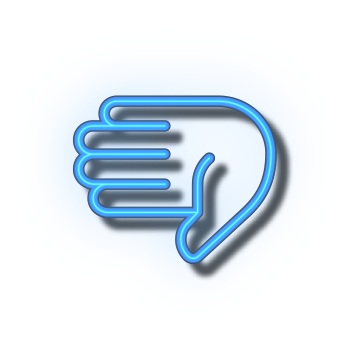
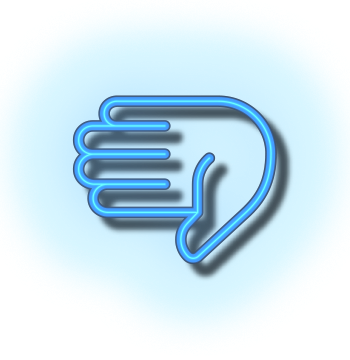
change styling of buttons

diff --git a/style.css b/style.css
@@ -1,6 +1,26 @@
+body{
+    background-image: url("img/background2.png");
+    background-position: top;
+}
+
+h1{
+    display: none;
+}
+
+.title{
+    background-image: url("img/title.png");
+    width: 720px;
+    height: 240px;
+    background-position: center;
+    margin: 0 auto;
+}
+
 .game{
-    margin-top: 70px;
+    margin-top: 20px;
     text-align: center;
+    display: flex;
+    flex-direction: column;
+    justify-content: center;
 }
 
 .inputimages{
@@ -11,25 +31,28 @@
 
 #rock{
     background-image: url("img/rockbutton.png");
-    width: 130px;
-    height: 130px;
-    margin: 20px;
+    background-color: transparent;
+    width: 140px;
+    height: 140px;
+    margin-right: 20px;
     border-style: none;
 }
 
 #paper{
     background-image: url("img/paperbutton.png");
-    width: 130px;
-    height: 130px;
-    margin: 20px;
+    background-color: transparent;
+    width: 140px;
+    height: 140px;
+    margin-right: 20px;
     border-style: none;
 }
 
 #scissors{
-    background-image: url("img/scissorsbutton.png");
-    width: 130px;
-    height: 130px;
-    margin: 20px;
+    background-image: url("img/scissorsbutton2.png");
+    background-color: transparent;
+    width: 140px;
+    height: 140px;
+    margin-right: 20px;
     border-style: none;
 }
 
@@ -43,4 +66,17 @@
 
 #rock:hover {
     background-image: url("img/rockhover.png");
+}
+
+#computer{
+    background-image: url("img/playbutton.png");
+    background-color: transparent;
+    height: 45px;
+    width: 110px;
+    margin: 10px;
+    border-style: none;
+}
+
+#computer:hover {
+    background-image: url("img/playhover.png");
 }

diff --git a/index.html b/index.html
@@ -7,7 +7,7 @@
 </head>
     <body>
         <div class="game">
-            <h1>Choose your weapon!</h1>
+            <div class="title"><h1>Choose your weapon!</h1></div>
             <div class="inputimages">
                 <img src="img/computerrock.png" height="360" width="350" alt="rock" id="imgcomputer">
                 <img src="img/playerrock.png" height="360" width="350" alt="rock" id="imgplayer">
@@ -19,7 +19,7 @@
                 <button type="button" id="scissors"></button>
             </div>
             <div class="computer">
-                <button type="button" id="computer">Let's play</button>
+                <button type="button" id="computer"></button>
             </div>
             <div class="outcome">
                 <h2 id="result"></h2>
